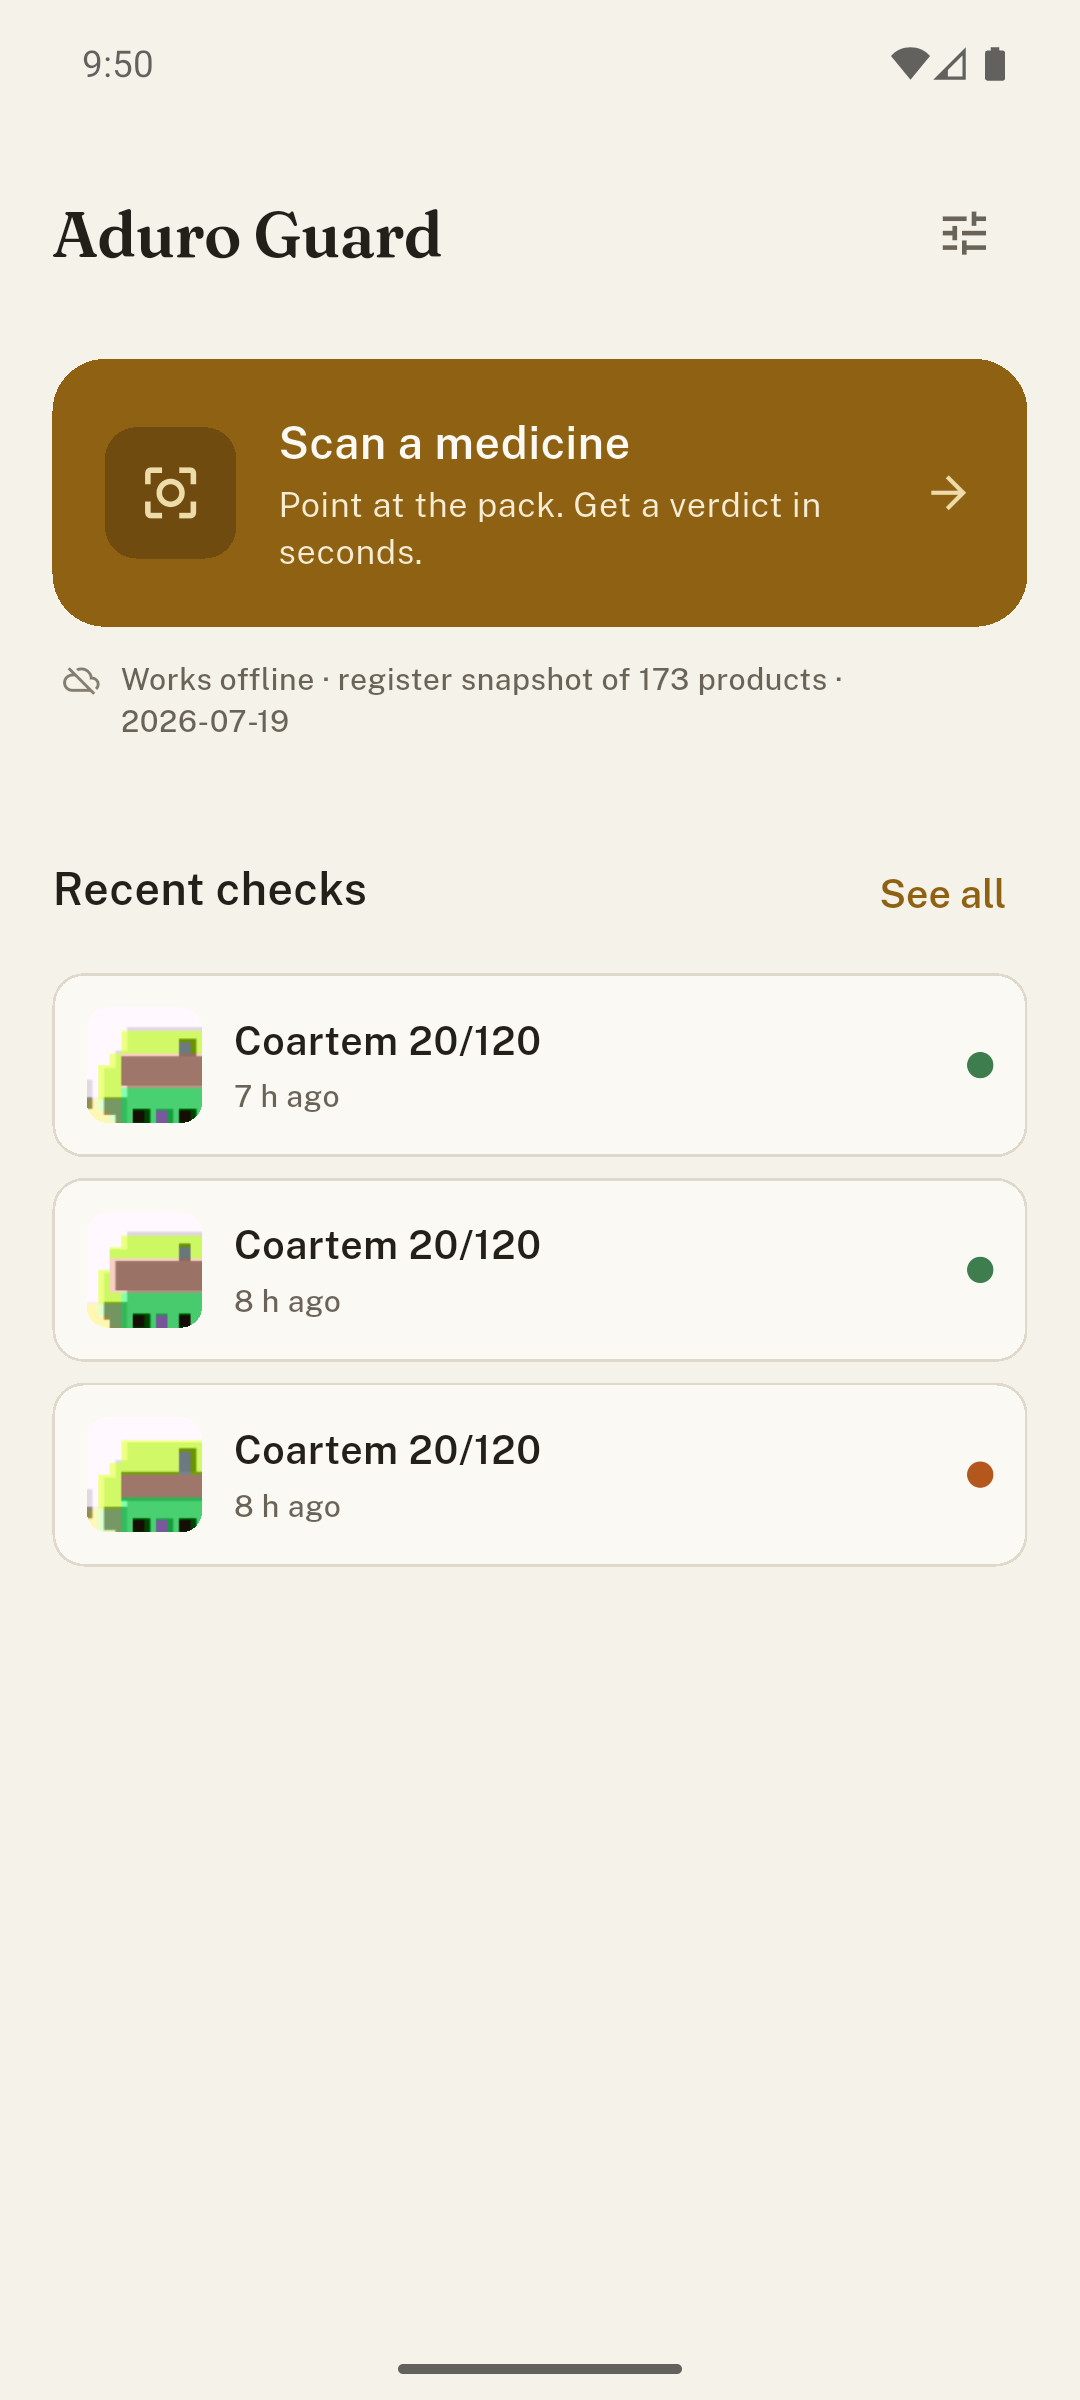
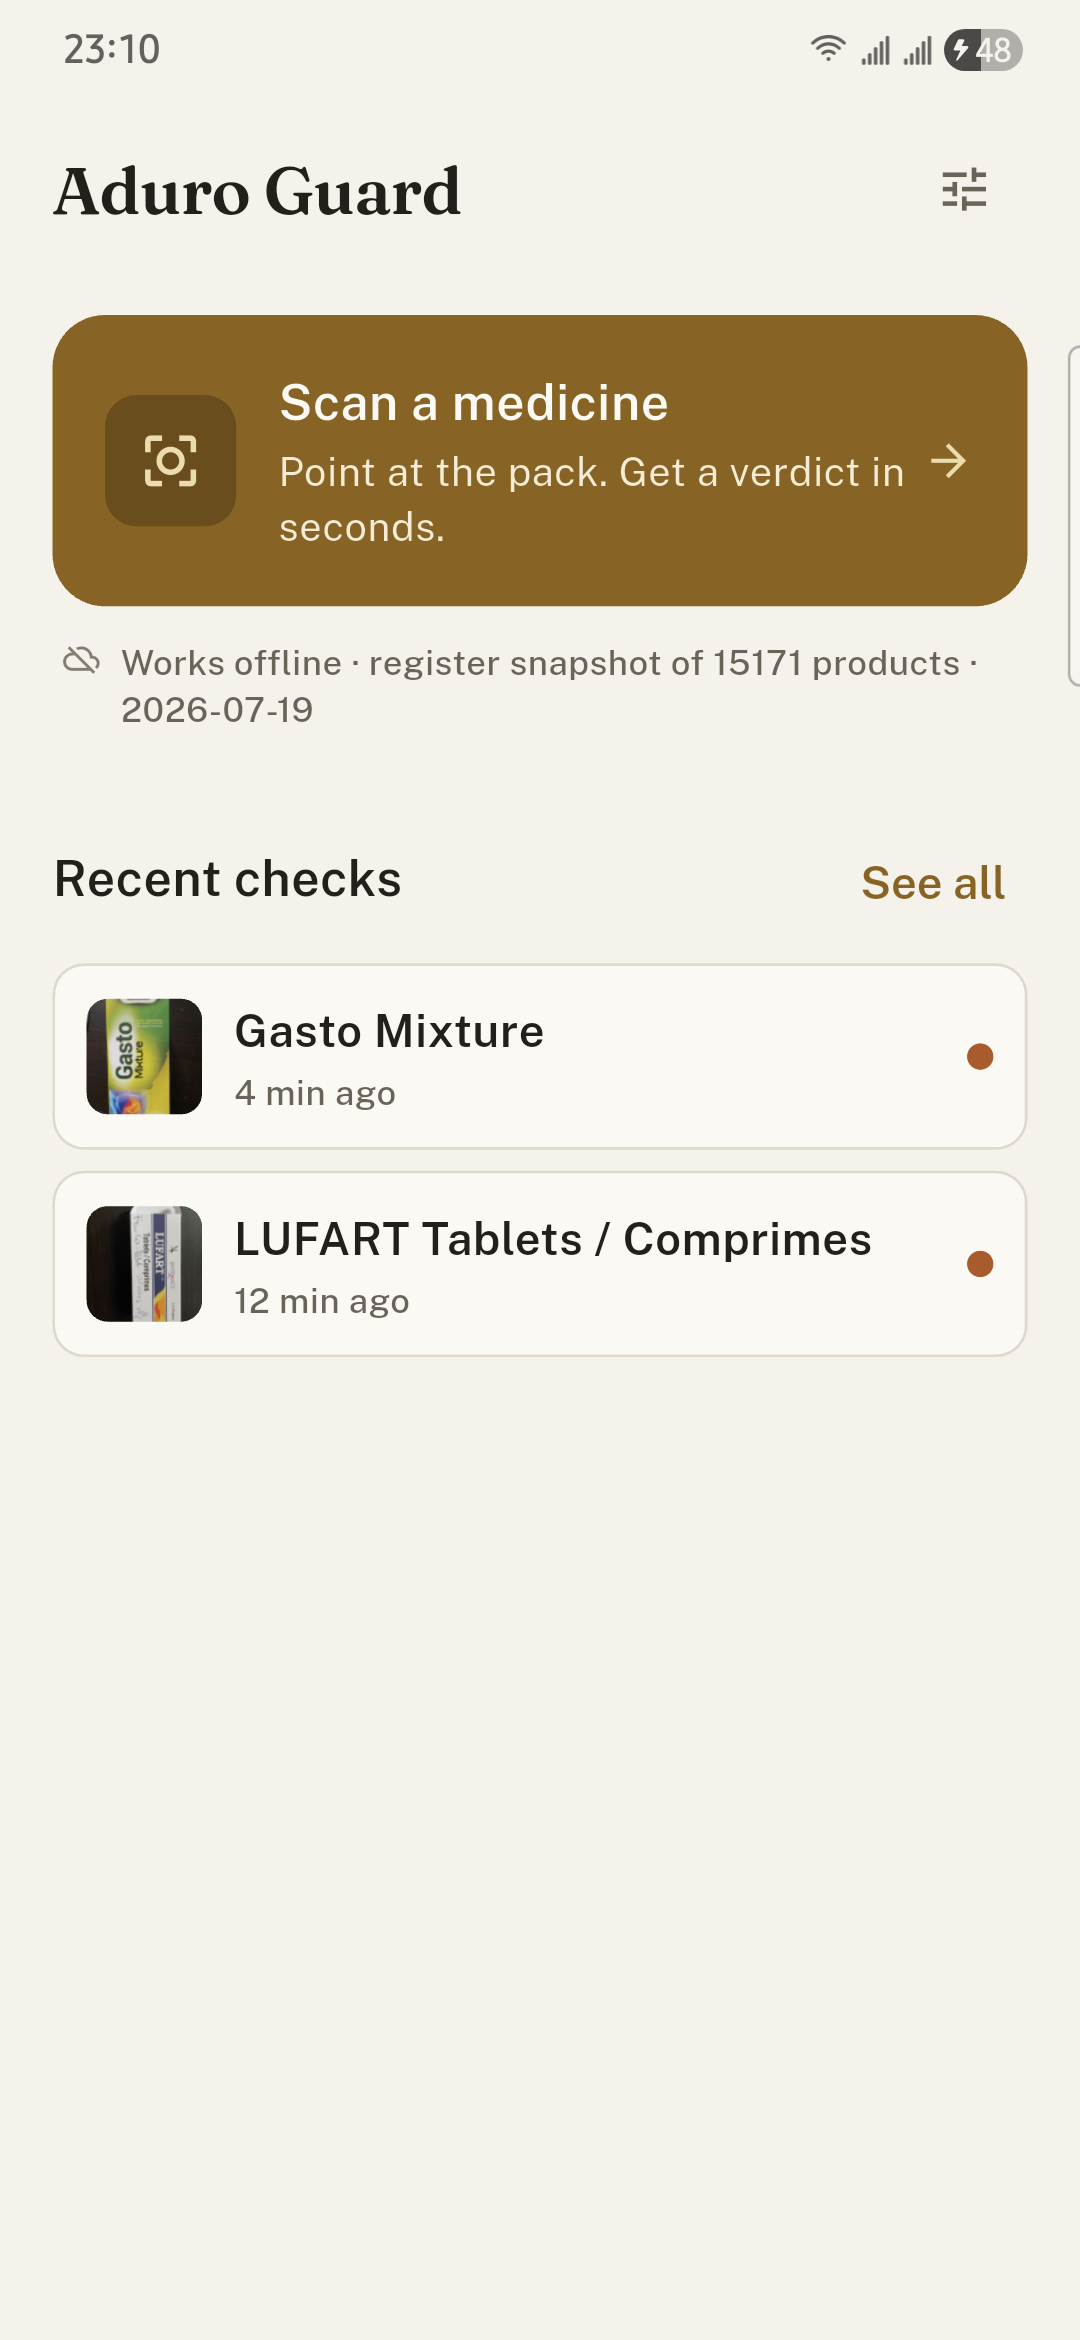
README: full screenshot walkthrough from the release build
Twenty three screenshots captured on a Galaxy S24 with Gemma 4 E2B doing
the reading: setup and language switching, the scan path from camera to
verdict, guidance in English and Twi, the add-a-side flow shown before
and after, history, settings and both themes.

diff --git a/README.md b/README.md
@@ -16,9 +16,39 @@ code, no literacy requirement, no internet.
 
 ## Screenshots
 
-| Onboarding in Twi | Home | Result | Dark result | Dark settings |
-| --- | --- | --- | --- | --- |
-| ![Onboarding with the UI in Twi](docs/screenshots/onboarding-twi.png) | ![Home, light theme](docs/screenshots/home-light.png) | ![Scan result, light theme](docs/screenshots/result-light.png) | ![Scan result, dark theme](docs/screenshots/result-dark.png) | ![Settings, dark theme](docs/screenshots/settings-dark.png) |
+All captured on a Galaxy S24 running the release build, with Gemma 4 E2B doing the reading
+on the phone.
+
+**Setup, once.** Pick a language, and the whole interface switches to it immediately. Then
+the model is downloaded or imported, and after that the app never needs a network.
+
+| Choose a language | The same screen in Twi | Set up the offline brain | Downloading the model |
+| --- | --- | --- | --- |
+| ![Language picker](docs/screenshots/onboarding-language.png) | ![The picker after choosing Twi](docs/screenshots/onboarding-twi.png) | ![Offline model setup](docs/screenshots/model-setup.png) | ![Model download in progress](docs/screenshots/model-downloading.png) |
+
+**Scanning.** Point, confirm, and the pack is read on the phone.
+
+| Home | Camera | Confirm the photo | Reading the pack |
+| --- | --- | --- | --- |
+| ![Home screen](docs/screenshots/home-empty.png) | ![Camera capture](docs/screenshots/camera.png) | ![Confirm the photo](docs/screenshots/confirm-photo.png) | ![Reading the pack, offline](docs/screenshots/reading-pack.png) |
+
+**The verdict, and what it means.** The database decides; Gemma explains it in your
+language. Twi here is the reviewed wording that replaces model output when it drifts.
+
+| Verdict | Guidance in English | Guidance in Twi | Saved check, light theme |
+| --- | --- | --- | --- |
+| ![A caution verdict](docs/screenshots/result-caution.png) | ![Guidance in English](docs/screenshots/counseling-english.png) | ![Guidance in Twi](docs/screenshots/counseling-twi.png) | ![A saved check in the light theme](docs/screenshots/result-light.png) |
+
+**One photo rarely shows everything.** When fields are missing the app names exactly what
+it could not see and asks for one more angle, then re-runs the check.
+
+| Before: batch, expiry and FDA number unread | After a photo of the back |
+| --- | --- |
+| ![Missing details after the first photo](docs/screenshots/add-side-before.png) | ![All fields filled after a second photo](docs/screenshots/add-side-after.png) |
+
+| History | Settings | Offline voices |
+| --- | --- | --- |
+| ![Past checks](docs/screenshots/history.png) | ![Language and appearance settings](docs/screenshots/settings-language.png) | ![Downloadable offline voices](docs/screenshots/settings-voices.png) |
 
 ## How it works: Gemma reads, the database decides, Gemma explains
 
